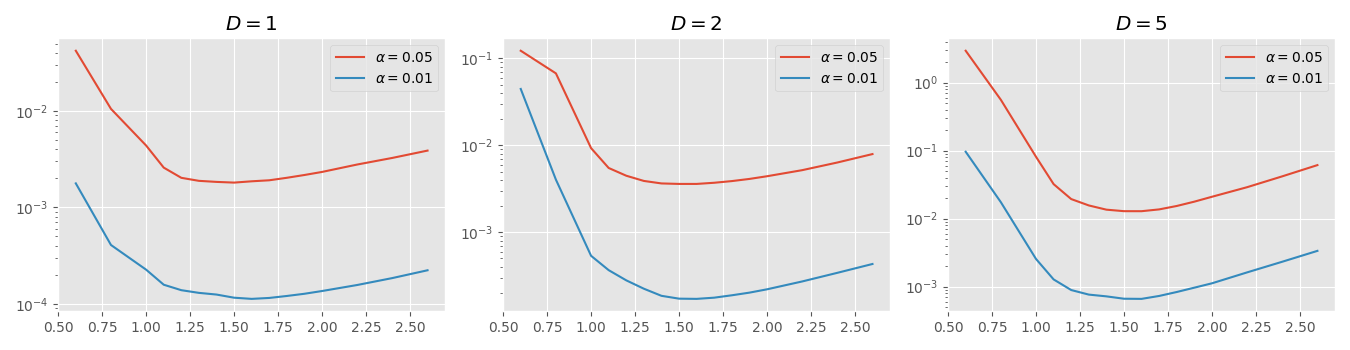
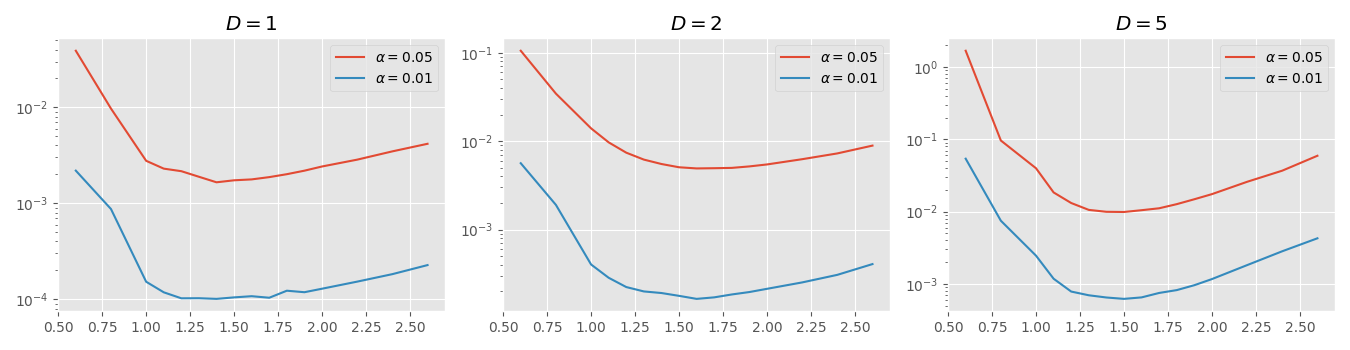
abc

diff --git a/niscv_v2/analysis/real/garch_bdwth.py b/niscv_v2/analysis/real/garch_bdwth.py
@@ -4,7 +4,7 @@ import pickle
 
 
 def read():
-    file = open('../../data/real/garch_bdwth', 'rb')
+    file = open('../../data/real/garch_bdwth2', 'rb')
     data = pickle.load(file)
     return np.array(data)
 
